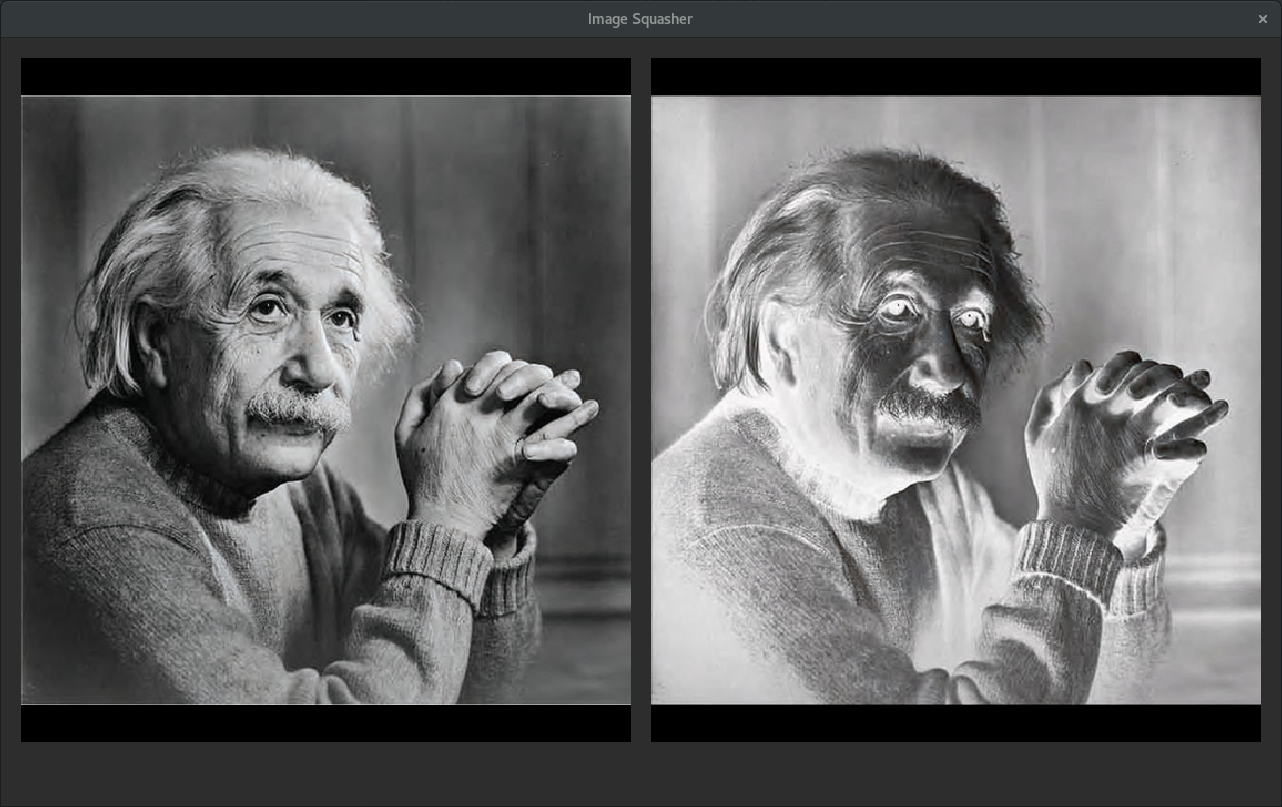
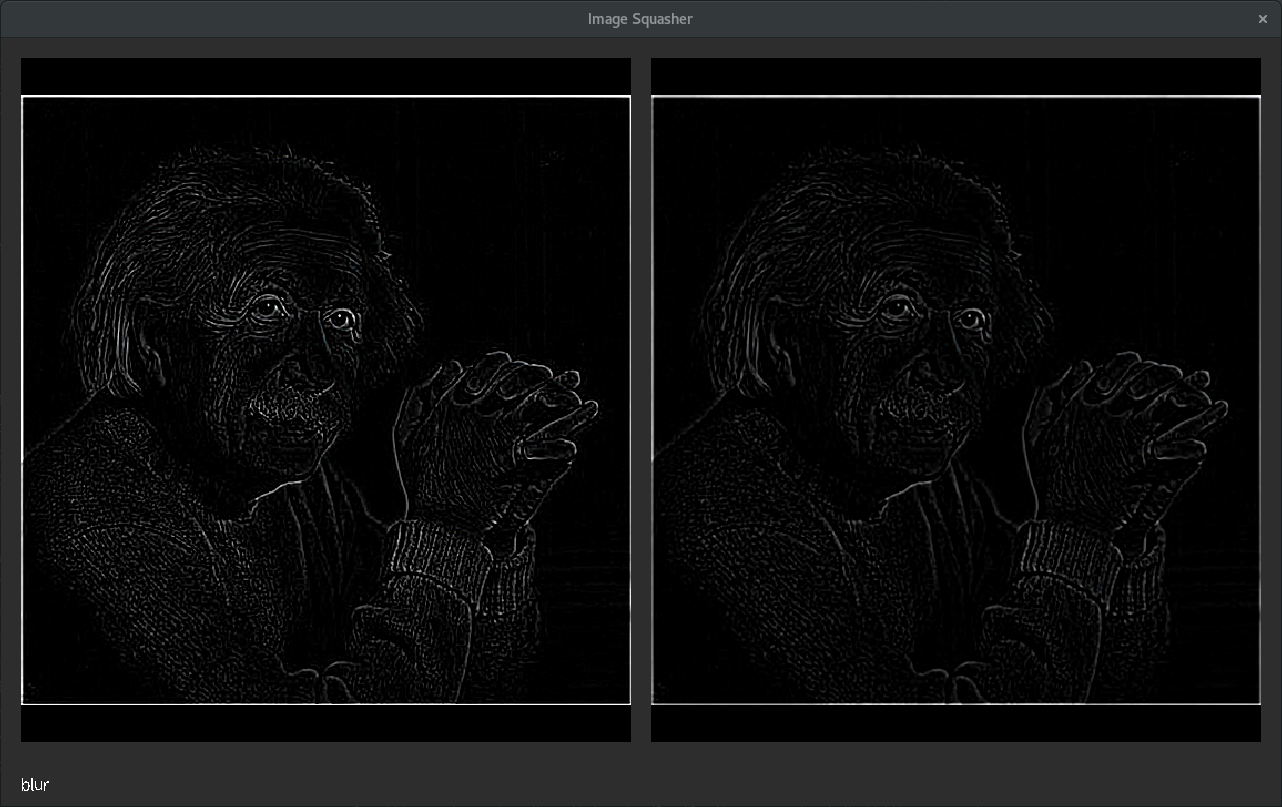
Added functionality to the command module.

diff --git a/commander.cpp b/commander.cpp
@@ -1,11 +1,94 @@
 #include "commander.h"
 
+#include <sstream>
+#include <iterator>
+
 using namespace imgsquash;
 
+static inline std::string trim(const std::string &s) {
+  size_t first = s.find_first_not_of(' ');
+  if (std::string::npos == first)
+  {
+      return s;
+  }
+  size_t last = s.find_last_not_of(' ');
+  return s.substr(first, (last - first + 1));
+}
+
+static inline std::vector<std::string> split(std::string const &input) { 
+    std::istringstream buffer(input);
+    std::vector<std::string> ret((std::istream_iterator<std::string>(buffer)), 
+                                 std::istream_iterator<std::string>());
+    return ret;
+}
+
 commander::commander(mutator *m, display *d) : img_mutator(m), gui(d) {
-  // Setup commands
+  command_list = {
+    {"load", [this](std::vector<std::string> &args) -> void{
+        if (args.size() > 0) {
+          if (!img_mutator->load_image(args[0])) {
+            gui->set_error_buffer_string("*ERROR*: Failed to load image " + args[0]);
+          }
+        }
+      }},
+    {"invert", [this](std::vector<std::string> &args) -> void{ img_mutator->make_inverted(); } },
+    {"grey", [this](std::vector<std::string> &args) -> void{ img_mutator->make_greyscale(); } },
+    {"blur", [this](std::vector<std::string> &args) -> void{ img_mutator->make_blur(); } },
+    {"sharpen", [this](std::vector<std::string> &args) -> void{ img_mutator->make_sharpen(); } },
+    {"outline", [this](std::vector<std::string> &args) -> void{ img_mutator->make_outline(); } },
+    {"flip", [this](std::vector<std::string> &args) -> void{ img_mutator->secondary_to_primary(); } },
+    {"emboss", [this](std::vector<std::string> &args) -> void{ img_mutator->make_embossed(); } }
+  };
 }
 
 bool commander::handle_event(SDL_Event *event) {
-  return false;
+  bool should_quit = false;
+  if (event->type == SDL_KEYUP) {
+    auto keycode = event->key.keysym.sym;
+    
+    if (keycode == SDLK_ESCAPE) {
+      should_quit = true;
+    }
+  }
+  else if (event->type == SDL_KEYDOWN) {
+    auto keysym = event->key.keysym.sym;
+    if (keysym == SDLK_BACKSPACE) {
+      if (user_input.length() > 0) {
+        user_input.erase(user_input.end()-1);
+        gui->set_command_buffer_string(user_input);
+      }
+    }
+    else if (keysym == SDLK_RETURN) {
+      parse_command(user_input);
+    }
+    else if (keysym == SDLK_TAB) {
+      // Handle auto complete
+    }
+  }
+  else if (event->type == SDL_TEXTINPUT) {
+    user_input.append(event->text.text);
+    gui->set_command_buffer_string(user_input);
+  }
+  
+  return should_quit;
+}
+
+void commander::parse_command(std::string &command) {
+  std::vector<std::string> args = split(trim(command));
+  if (args.size() == 0) return;
+  
+  user_input.erase();
+  gui->set_command_buffer_string(user_input);
+  
+  std::string cmd = args[0];
+  if (command_list.find(cmd) != command_list.end()) {
+    args.erase(args.begin());
+    command_list.at(cmd)(args);
+    
+    if (img_mutator->get_primary()) gui->set_primary_image(*(img_mutator->get_primary()));
+    if (img_mutator->get_secondary()) gui->set_secondary_image(*(img_mutator->get_secondary()));
+  }
+  else {
+    gui->set_error_buffer_string("*ERROR*: Unknown command " + cmd);
+  }
 }

diff --git a/display.cpp b/display.cpp
@@ -24,6 +24,8 @@ display::display(const std::string &title, i32 w, i32 h) : width(w), height(h) {
   
   primary = nullptr;
   secondary = nullptr;
+  command_buffer = nullptr;
+  error_buffer = nullptr;
   
   bg = SDL_MapRGB(back_buffer->format, 0x2D, 0x2D, 0x2D);
   black = SDL_MapRGB(back_buffer->format, 0, 0, 0);
@@ -39,12 +41,26 @@ display::display(const std::string &title, i32 w, i32 h) : width(w), height(h) {
   else puts("TIF:\tFAIL");
   if (img_init_flags & IMG_INIT_WEBP) puts("WEBP:\tOK");
   else puts("WEBP:\tFAIL");
+  
+  TTF_Init();
 }
 
 display::~display() {
   SDL_DestroyWindow(window);
+  TTF_CloseFont(font);
+  SDL_StopTextInput();
+  
+  TTF_Quit();
   IMG_Quit();
   SDL_Quit();
+}
+
+bool display::setup(const std::string &res_folder_path) {
+  font = TTF_OpenFont((res_folder_path + "Tuffy.ttf").c_str(), 18);
+  
+  SDL_StartTextInput();
+  
+  return font;
 }
 
 void display::blit_rect(i32 x, i32 y, i32 w, i32 h) {
@@ -84,6 +100,17 @@ void display::present() {
       dst.x = 40 + buffer_width + buffer_width/2 - dst.w/2;
       SDL_BlitScaled(secondary, NULL, back_buffer, &dst);
     }
+  }
+  
+  if (error_buffer) {
+    dst.x = 20;
+    dst.y = height - 10 - error_buffer->h;
+    SDL_BlitSurface(error_buffer, NULL, back_buffer, &dst);
+  }
+  else if (command_buffer) {
+    dst.x = 20;
+    dst.y = height - 10 - command_buffer->h;
+    SDL_BlitSurface(command_buffer, NULL, back_buffer, &dst);
   }
   
   SDL_UpdateWindowSurface(window);
@@ -126,7 +153,16 @@ void display::set_secondary_image(const image &img) {
 }
 
 void display::set_completion_string(const std::string &completions) {} // TODO: Implement this!
-void display::set_command_buffer_string(const std::string &input) {} // TODO: Implement this!
+
+void display::set_command_buffer_string(const std::string &input) {
+  error_buffer = nullptr;
+  command_buffer = TTF_RenderText_Solid(font, input.c_str(), {255, 255, 255, 255});
+}
+
+void display::set_error_buffer_string(const std::string &input) {
+  puts("ERROR STRING");
+  error_buffer = TTF_RenderText_Solid(font, input.c_str(), {255, 50, 50, 255});
+}
 
 static void convert_image_to_surface(const image &img, SDL_Surface **surf) {
   (*surf) = SDL_CreateRGBSurface(0, img.width, img.height, 32,

diff --git a/mutator.cpp b/mutator.cpp
@@ -161,6 +161,8 @@ bool mutator::load_image(const std::string &filename) {
 }
 
 void mutator::make_greyscale() {
+  if (!primary) return;
+  
   r32 *primaryComponent = &primary->data[0];
   r32 *secondaryComponent = &secondary->data[0];
   u32 numPixels = primary->width * primary->height;
@@ -181,6 +183,8 @@ void mutator::make_greyscale() {
 }
 
 void mutator::make_inverted() {
+  if (!primary) return;
+  
   r32 *primaryComponent = &primary->data[0];
   r32 *secondaryComponent = &secondary->data[0];
   u32 numPixels = primary->width * primary->height;
@@ -200,10 +204,14 @@ void mutator::make_inverted() {
 }
 
 void mutator::make_identity() {
+  if (!primary) return;
+  
   std::copy(primary->data.begin(), primary->data.end(), secondary->data.begin());
 }
 
 void mutator::make_sharpen() {
+  if (!primary) return;
+  
   r32 kernel[9] = {
      0.0f, -1.0f,  0.0f,
     -1.0f,  5.0f, -1.0f,
@@ -214,6 +222,8 @@ void mutator::make_sharpen() {
 }
 
 void mutator::make_blur() {
+  if (!primary) return;
+  
   r32 kernel[9] = {
     0.0625f, 0.1250f, 0.0625f,
     0.1250f, 0.2500f, 0.1250f,
@@ -224,6 +234,8 @@ void mutator::make_blur() {
 }
 
 void mutator::make_embossed() {
+  if (!primary) return;
+  
   r32 kernel[9] = {
     -2, -1,  0,
     -1,  1,  1,
@@ -234,6 +246,8 @@ void mutator::make_embossed() {
 }
 
 void mutator::make_outline() {
+  if (!primary) return;
+  
   r32 kernel[9] = {
     -1, -1, -1,
     -1,  8, -1,
@@ -244,8 +258,10 @@ void mutator::make_outline() {
 }
 
 void mutator::secondary_to_primary() {
+  if (!primary || !secondary) return;
+  
   primary = std::make_unique<image>(*secondary);
-  secondary->clear();
+  secondary = std::make_unique<image>(primary->width, primary->height);
 }
 
 void mutator::make_flat_primary(i32 w, i32 h, color col) {

diff --git a/display.h b/display.h
@@ -3,6 +3,7 @@
 
 #include <string>
 #include <SDL.h>
+#include <SDL_ttf.h>
 #include "image.h"
 #include "types.h"
 
@@ -17,6 +18,10 @@ namespace imgsquash {
     
     SDL_Surface *back_buffer;
     SDL_Surface *primary, *secondary;
+    SDL_Surface *command_buffer;
+    SDL_Surface *error_buffer;
+    
+    TTF_Font *font;
     
     void blit_rect(i32 x, i32 y, i32 w, i32 h);
     void fit_rect(const SDL_Surface &surf, SDL_Rect &rect) const;
@@ -24,6 +29,8 @@ namespace imgsquash {
   public:
     display(const std::string &title, i32 width, i32 height);
     ~display();
+    
+    bool setup(const std::string &res_folder_path);
     
     void present();
     
@@ -37,6 +44,7 @@ namespace imgsquash {
     
     void set_completion_string(const std::string &completions);
     void set_command_buffer_string(const std::string &input);
+    void set_error_buffer_string(const std::string &input);
   };
 }
 

diff --git a/commander.h b/commander.h
@@ -17,8 +17,10 @@ namespace imgsquash {
     mutator *img_mutator;
     display *gui;
 
-    std::unordered_map<std::string, std::function<void (std::string, std::vector<std::string>)>> command_list;
+    std::unordered_map<std::string, std::function<void (std::vector<std::string>&)>> command_list;
     std::string user_input;
+    
+    void parse_command(std::string &command);
     
   public:
     commander(mutator *m, display *d);

diff --git a/main.cpp b/main.cpp
@@ -9,6 +9,10 @@ int main() {
   imgsquash::mutator mutator;
   imgsquash::commander commander(&mutator, &display);
   
+  if (!display.setup("/home/istarnion/Dev/C++/imagesquasher/res/")) {
+    return -1;
+  }
+  
   bool running = true;
   SDL_Event event;
   while(running) {

diff --git a/README.md b/README.md
@@ -5,7 +5,7 @@ This is a simple tool I'm making to learn more about image processing.
 It is very much a work in progress, but the goal is to have a useful utility for enhancing images through filters, while getting quick feedback in the GUI.
 
 ![Example image of invert-filter](screenshotImgSquasher.png)
-_A simple filter that invert colors_
+_Einstein, after the application of numerous filters_
 
 ## Architecture
 The program has three distinct modules;
